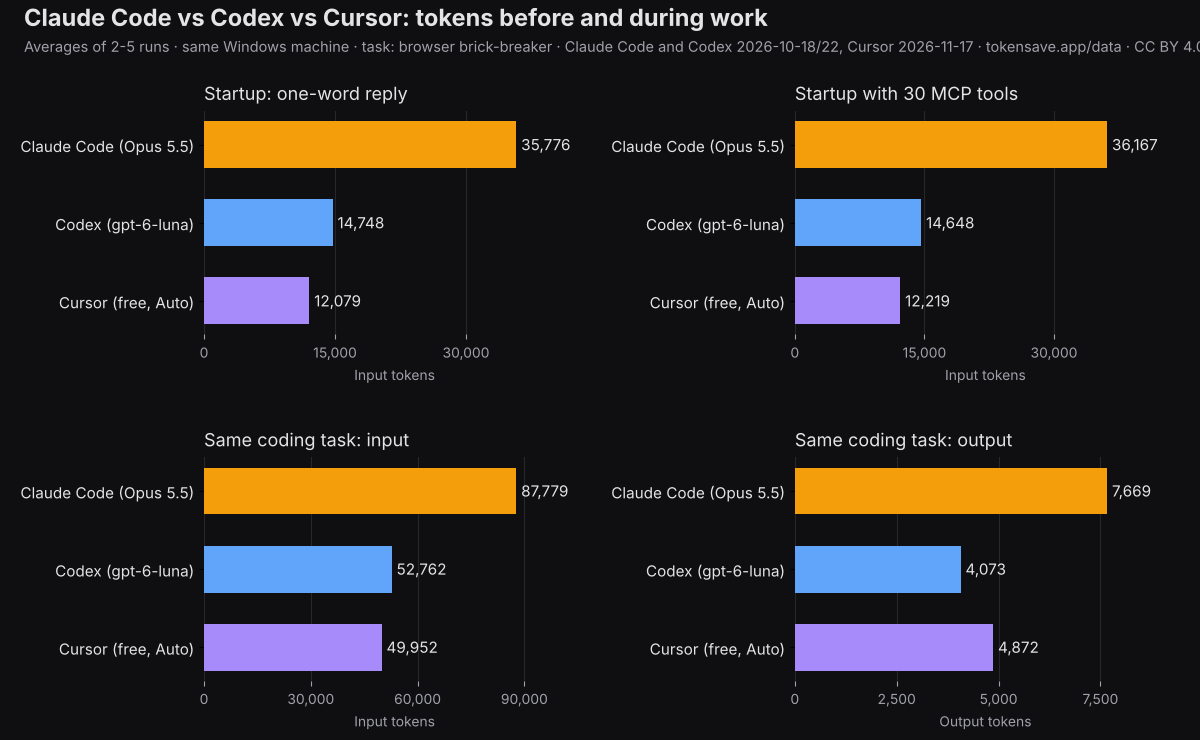
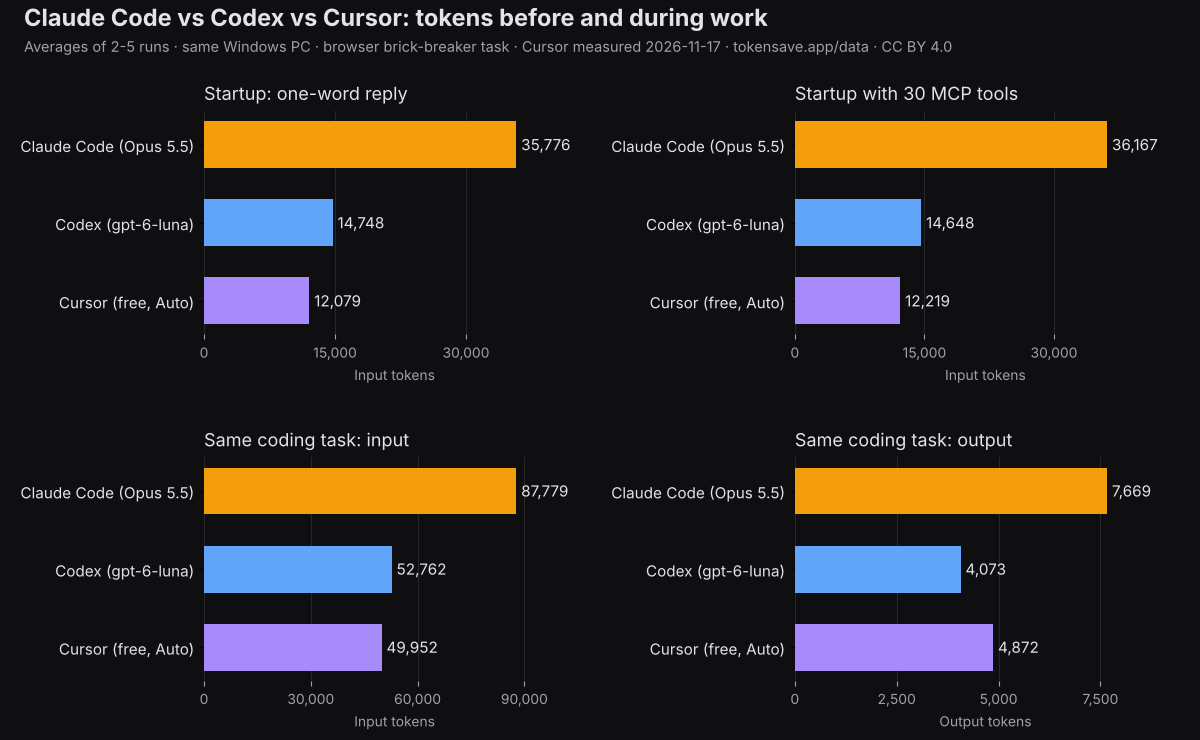
Dataset 8 v2: shorten chart subtitle
Claude-Session: https://claude.ai/code/session_0114J8oCXExe9ebHvH1UevYH

Changed region(s): [[0.2467, 0.0311, 0.7708, 0.0932], [0.8325, 0.0622, 0.925, 0.0932], [0.9867, 0.0622, 1.0, 0.0932]]

diff --git a/_source/blog_data/charts_agt.py b/_source/blog_data/charts_agt.py
@@ -26,6 +26,6 @@ for ax, (t, vals, xl) in zip(axes.flat, panels):
     ax.grid(axis='x', color=GRID); ax.set_axisbelow(True); ax.set_xlim(0, mx * 1.22)
     ax.xaxis.set_major_locator(matplotlib.ticker.MaxNLocator(4)); ax.xaxis.set_major_formatter(matplotlib.ticker.FuncFormatter(lambda v, _: f'{int(v):,}'))
 fig.text(0.02, 0.965, "Claude Code vs Codex vs Cursor: tokens before and during work", fontsize=17, fontweight='bold', color=FG)
-fig.text(0.02, 0.93, "Averages of 2-5 runs · same Windows machine · task: browser brick-breaker · Claude Code and Codex 2026-10-18/22, Cursor 2026-11-17 · tokensave.app/data · CC BY 4.0", fontsize=10.5, color=MUTED)
+fig.text(0.02, 0.93, "Averages of 2-5 runs · same Windows PC · browser brick-breaker task · Cursor measured 2026-11-17 · tokensave.app/data · CC BY 4.0", fontsize=10.5, color=MUTED)
 plt.subplots_adjust(left=0.17, right=0.98, top=0.85, bottom=0.08, hspace=0.55, wspace=0.55)
 plt.savefig('src/static/claude-code-vs-codex-tokens-chart.png', facecolor=BG); plt.close(fig)
